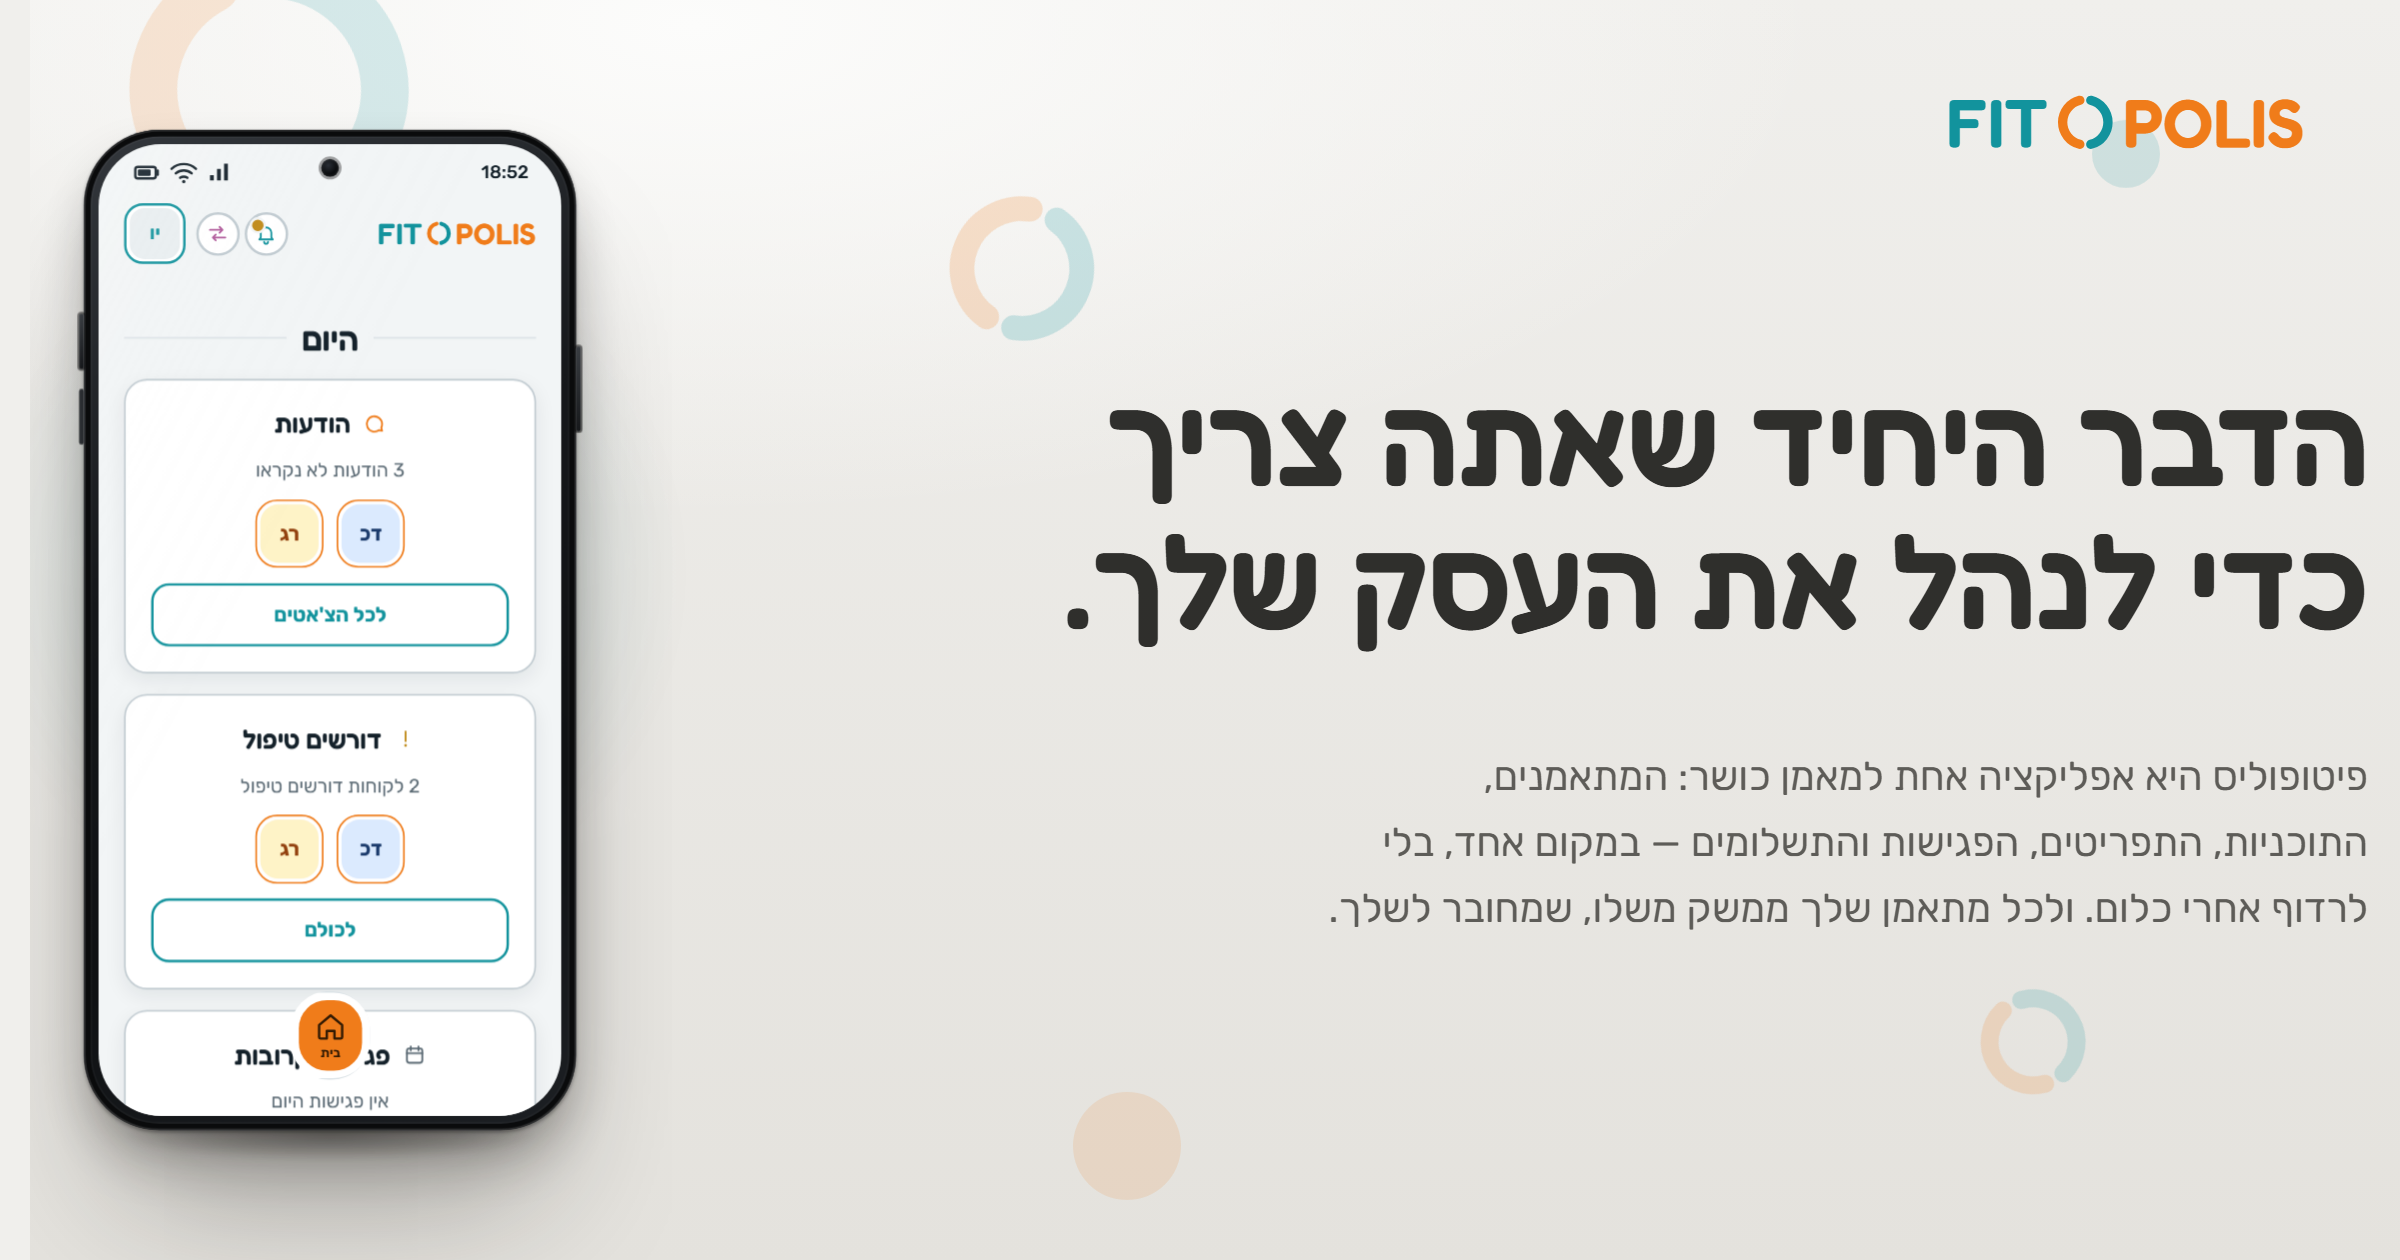
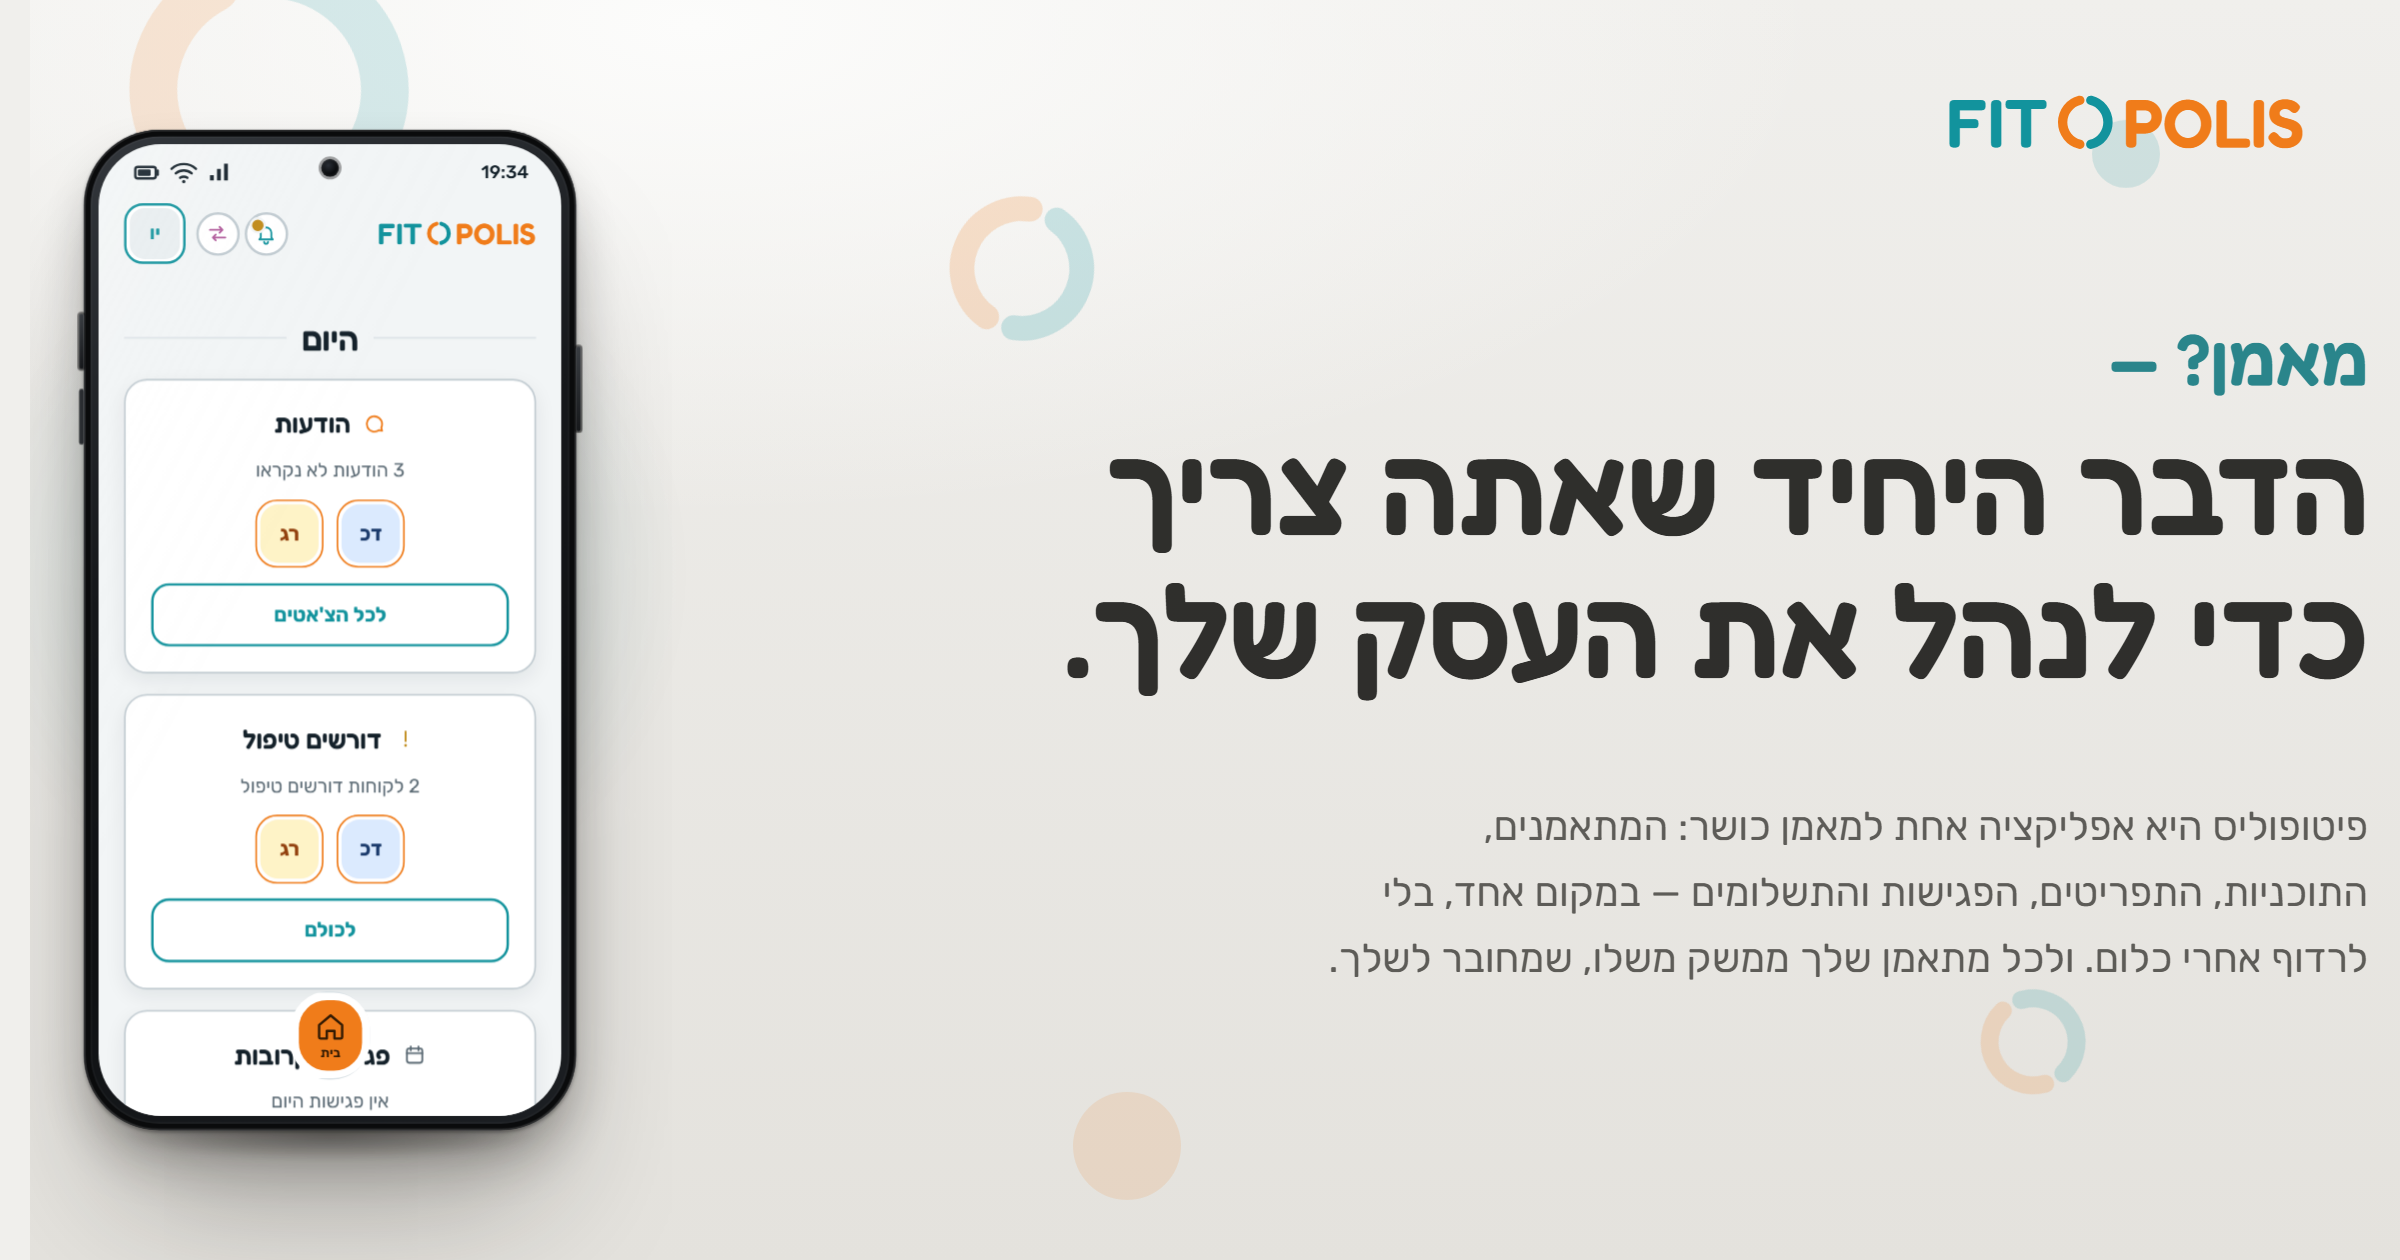
הכותרת הראשית פותחת ב"מאמן? —" (בקשת הבעלים): שורה משלה, קטנה מהכותרת, בקול המאמן; style v13; תמונת שיתוף מחודשת

Changed region(s): [[0.4375, 0.2476, 1.0, 0.5571], [0.5625, 0.5881, 1.0, 0.7738], [0.1875, 0.1238, 0.2188, 0.1548]]

diff --git a/index.html b/index.html
@@ -24,7 +24,7 @@
   <link rel="preload" as="font" type="font/woff2" href="assets/fonts/rubik-400-hebrew.woff2" crossorigin>
   <link rel="preload" as="font" type="font/woff2" href="assets/fonts/fredoka-600-hebrew.woff2" crossorigin>
   <link rel="stylesheet" href="assets/fonts/fonts.css">
-  <link rel="stylesheet" href="css/style.css?v=12">
+  <link rel="stylesheet" href="css/style.css?v=13">
   <link rel="stylesheet" href="css/phone.css?v=2">
   <link rel="canonical" href="https://fitopolis.co.il/">
 </head>
@@ -122,7 +122,7 @@
     <div class="container hero-inner">
       <div class="hero-copy">
         <span class="hero-chip reveal"><span class="dot"></span>בקרוב ב-Google Play וב-App Store</span>
-        <h1 class="reveal d1">הדבר היחיד שאתה צריך <br>כדי לנהל את העסק שלך.</h1>
+        <h1 class="reveal d1"><span class="h1-lead">מאמן? —</span>הדבר היחיד שאתה צריך <br>כדי לנהל את העסק שלך.</h1>
         <p class="sub reveal d2">פיטופוליס היא אפליקציה אחת למאמן כושר: המתאמנים, התוכניות, התפריטים, הפגישות והתשלומים — במקום אחד, בלי לרדוף אחרי כלום. ולכל מתאמן שלך ממשק משלו, שמחובר לשלך.</p>
         <a class="btn btn-primary reveal d4" href="mailto:fitopolis.contact@gmail.com">אני רוצה להיות מהראשונים</a>
         <p class="note reveal d5">בהרצה סגורה · תשובה אישית ממני</p>

diff --git a/css/style.css b/css/style.css
@@ -1274,6 +1274,9 @@ a.logotype { min-height: 44px; }
 /* לפטופ נמוך (1366×768 ודומיו): הכפתור הראשי נשאר מעל קו הקיפול */
 @media (min-width: 921px) and (max-height: 820px) { .hero h1 { font-size: clamp(34px, 4vw, 48px); } .hero-inner { padding-block: 24px 56px; } }
 
+/* הפנייה שלפני הכותרת: "מאמן? —" בשורה משלה, קטנה מהכותרת ובקול המאמן (בקשת הבעלים 09/09) */
+.hero h1 .h1-lead { display: block; font-size: 0.56em; font-weight: 500; color: var(--trainer-text); line-height: 1.2; margin-bottom: 0.18em; }
+
 /* ── צמצום תנועה ──────────────────────────────────────────── */
 @media (prefers-reduced-motion: reduce) {
   .flip-btn svg { transition: none; }

diff --git a/invite/index.html b/invite/index.html
@@ -18,7 +18,7 @@
   <link rel="preload" as="font" type="font/woff2" href="../assets/fonts/rubik-400-hebrew.woff2" crossorigin>
   <link rel="preload" as="font" type="font/woff2" href="../assets/fonts/fredoka-600-hebrew.woff2" crossorigin>
   <link rel="stylesheet" href="../assets/fonts/fonts.css">
-  <link rel="stylesheet" href="../css/style.css?v=12">
+  <link rel="stylesheet" href="../css/style.css?v=13">
   <link rel="canonical" href="https://fitopolis.co.il/invite/">
 </head>
 <body class="page-wrap">

diff --git a/accessibility.html b/accessibility.html
@@ -12,7 +12,7 @@
   <link rel="preload" as="font" type="font/woff2" href="assets/fonts/rubik-400-hebrew.woff2" crossorigin>
   <link rel="preload" as="font" type="font/woff2" href="assets/fonts/fredoka-600-hebrew.woff2" crossorigin>
   <link rel="stylesheet" href="assets/fonts/fonts.css">
-  <link rel="stylesheet" href="css/style.css?v=12">
+  <link rel="stylesheet" href="css/style.css?v=13">
   <link rel="canonical" href="https://fitopolis.co.il/accessibility.html">
 </head>
 <body class="page-wrap">

diff --git a/404.html b/404.html
@@ -12,7 +12,7 @@
   <link rel="preload" as="font" type="font/woff2" href="assets/fonts/rubik-400-hebrew.woff2" crossorigin>
   <link rel="preload" as="font" type="font/woff2" href="assets/fonts/fredoka-600-hebrew.woff2" crossorigin>
   <link rel="stylesheet" href="assets/fonts/fonts.css">
-  <link rel="stylesheet" href="css/style.css?v=12">
+  <link rel="stylesheet" href="css/style.css?v=13">
   </head>
 <body class="page-wrap">
 <a class="skip-link" href="#main">דלג לתוכן הראשי</a>

diff --git a/support.html b/support.html
@@ -12,7 +12,7 @@
   <link rel="preload" as="font" type="font/woff2" href="assets/fonts/rubik-400-hebrew.woff2" crossorigin>
   <link rel="preload" as="font" type="font/woff2" href="assets/fonts/fredoka-600-hebrew.woff2" crossorigin>
   <link rel="stylesheet" href="assets/fonts/fonts.css">
-  <link rel="stylesheet" href="css/style.css?v=12">
+  <link rel="stylesheet" href="css/style.css?v=13">
   <link rel="canonical" href="https://fitopolis.co.il/support.html">
 </head>
 <body class="page-wrap">

diff --git a/README.md b/README.md
@@ -33,7 +33,7 @@ GitHub Pages מגיש את `style.css` עם מטמון של 10 דקות, ואי 
 שבחמשת הדפים (`index`, `support`, `accessibility`, `404`,
 `invite/index`). הכתובת משתנה, והדפדפן נאלץ להוריד מחדש.
 אותו כלל ל-`js/main.js` ול-`js/demo.js` (מקושרים רק מדף הבית): `main.js?v=N`, `demo.js?v=N`.
-המצב כרגע: `style.css?v=12` (בכל הדפים, כולל `invite/`), `phone.css?v=2`, `main.js?v=4`, `demo.js?v=4` (09/09/2026, סבב 4).
+המצב כרגע: `style.css?v=13` (בכל הדפים, כולל `invite/`), `phone.css?v=2`, `main.js?v=4`, `demo.js?v=4` (09/09/2026, סבב 4).
 
 ## הדמו האינטראקטיבי בטלפונים — `js/demo.js` + `css/phone.css` (09/09/2026)
 
